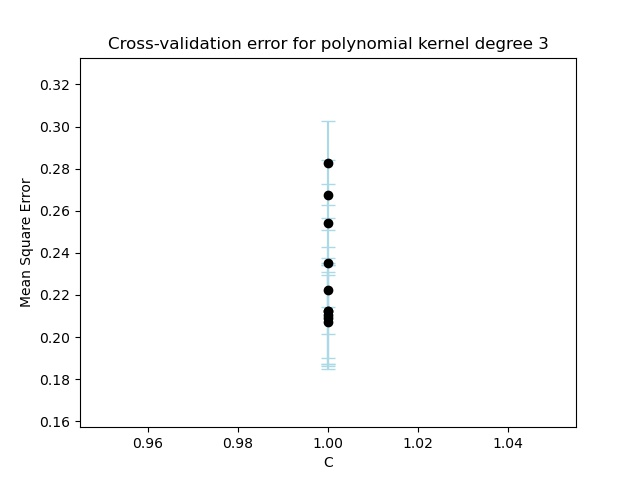
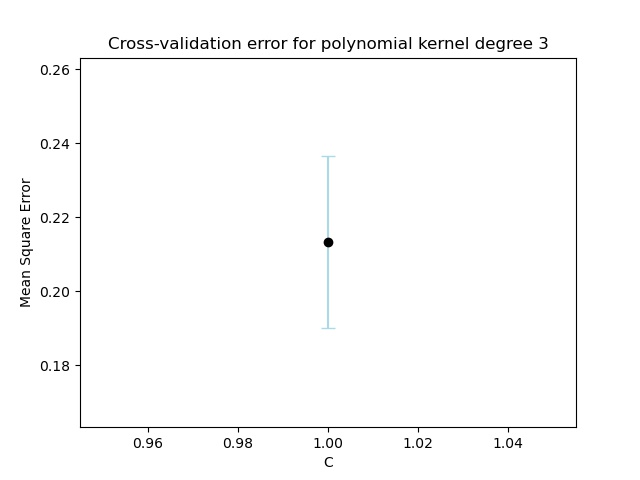
support question 3, 4

diff --git a/main.py b/main.py
@@ -1,90 +1,31 @@
 import pandas as pd
 import numpy as np 
 from libsvm.svmutil import *
-from utils import utils 
 import os
 import sys
 import argparse
-import matplotlib.pyplot as plt 
+
+from utils import utils 
+from utils import data_utils
+from utils import visualized_utils 
+
 
 parser = argparse.ArgumentParser()
 parser.add_argument("--num_disjoint", type=int, default=5,
               help="Number of epoch to train")
 args = parser.parse_args()
 
-def read_data():
-  # reading csv files
-  data =  pd.read_csv('./data/abalone.data').to_numpy()
-  
-  gender2vec = np.array([[1., 0., 0.]]) * (data[:, :1] == "M").astype(np.float32) + \
-               np.array([[0., 1., 0.]]) * (data[:, :1] == "I").astype(np.float32) + \
-               np.array([[0., 0., 1.]]) * (data[:, :1] == "F").astype(np.float32) 
-  data = np.concatenate([gender2vec, data[:, 1:]], 1)
-
-  label = ((data[:, -1] >= 1) | (data[:, -1] <= 9)).astype(np.int64) + \
-          - (data[:, -1] > 9).astype(np.int64)
-  train = {"features": data[:3133, :-1],
-           "labels": label[:3133]}
-  test = {"features": data[3133:, :-1],
-           "labels": label[3133:]}
-  min_train = np.min(train['features'][:, 3:], 0, keepdims=True)
-  max_train = np.max(train['features'][:, 3:], 0, keepdims=True)
-  def preprocess(data):
-    non_cat = (data["features"][:, 3:] - min_train) / (max_train - min_train)
-    data["features"] = np.concatenate([data["features"][:, :3],
-                          non_cat], 1)
-    return data
-  train = preprocess(train)
-  test = preprocess(test)
-  
-  return train, test 
-
-def split_data(data):
-  block_range = int(data['features'].shape[0]/args.num_disjoint)
-  idx = [i for i in range(0, data['features'].shape[0], 
-                   block_range)]
-  idx[-1] = data['features'].shape[0]
-
-  first_train_idx = [(0, id) for id in idx][1:-1]
-  first_train_idx.insert(0, None)
-  second_train_idx = [(idx[i], idx[-1]) for i in range(1, len(idx) - 1)] + [None]
-  test_idx = [(idx[i], idx[i+1]) for i in range(len(idx)-1)]
-   
-  split = []
-  for f_id, s_id, t_id in zip(first_train_idx, second_train_idx, test_idx):
-    out = {"train": {},
-         "test": {}}
-    train_features, train_labels = [], []
-    if f_id is not None:
-      train_features.append(data["features"][f_id[0]: f_id[1]])
-      train_labels.append(data["labels"][f_id[0]: f_id[1]])
-    if s_id is not None:
-      train_features.append(data["features"][s_id[0]: s_id[1]])
-      train_labels.append(data["labels"][s_id[0]: s_id[1]])
-    
-    train_features = np.concatenate(train_features, 0)
-    train_labels = np.concatenate(train_labels, 0)
-    test_features = data["features"][t_id[0]: t_id[1]]
-    test_labels = data["labels"][t_id[0]: t_id[1]]
-
-    out["train"]["features"] = train_features
-    out["train"]["labels"] = train_labels
-    out["test"]["features"] = test_features
-    out["test"]["labels"] = test_labels
-   
-    split.append(out)
- 
-  return split 
-
-def plot(mean):
+def plot3(mean):
   for degree in mean.keys():
     all_mean = mean[degree]
     x, y, e = [], [], []
+    i = 1
     for key, val in all_mean.items():
       #x.append(key)
-      x.append(1)
+      x.append(i)
       y.append(val['mean'])
       e.append(val['std'])
+      i += 1
     plt.errorbar(x, y, e, fmt = 'o', color = 'black', 
               linestyle='None', ecolor = 'lightblue',
               capsize=5)
@@ -93,12 +34,19 @@ def plot(mean):
     plt.ylabel("Mean Square Error")
     plt.title(f"Cross-validation error for polynomial kernel degree {degree}")
     #plt.yscale("log")
+    val = []
+    for x_vis in all_mean.keys():
+      if x_vis < 1.0:
+        val.append(round(x_vis, 3))
+      else:
+        val.append(round(x_vis))
+
+    plt.xticks(x, val)
     plt.savefig(f"./{degree}.jpg")
     plt.clf()
- 
-def question3_2(train, test, best_param):
-  c_param = best_param["C"]
-  degree = range(1, 9)
+
+def question4(train, test, best_param):
+  degree = range(1, 4)
   #degree = [1, 2]
   mse = {}
   dataloader = split_data(train)
@@ -112,7 +60,7 @@ def question3_2(train, test, best_param):
     for split_train in dataloader:
       train_data = split_train["train"]
       test_data = split_train["test"]
-      options = f"-r {c_param} -d {d_param} -t 1 -q"
+      options = f"-r {best_param['C']} -d {d_param} -t 1 -q"
       m = svm_train(train_data["labels"], train_data["features"], options)
       p_label, p_acc, p_val = svm_predict(test_data["labels"], test_data['features'], m, "-q")
       cross_val.append(p_acc[1])
@@ -123,8 +71,11 @@ def question3_2(train, test, best_param):
         best_param["C"] = c_param
 
       _, _, p_val = svm_predict(train_data["labels"], train_data['features'], m, "-q")
-      num_support_vec.append(np.sum((np.abs(p_val) == 1.0).float()))
+      p_val = np.array(p_val)
       
+      num_support_vec.append(np.sum((np.abs(np.abs(p_val) - 1.0) < 1e-3).astype(np.int64)))
+      
+
     #print(c_param, p_acc[1])
     cross_val = np.array(cross_val)
     acc_val = np.array(acc_val)
@@ -132,16 +83,25 @@ def question3_2(train, test, best_param):
                     "std": np.std(cross_val),
                     "acc": np.mean(acc_val),
                     "num_support_vec": np.mean(num_support_vec)}
+    print(np.mean(num_support_vec))
   print(best_param)
   print('domme')
   exit()
-def question3_1(train, test):
-  C = 3** np.linspace(2, 15, 10) 
+
+def question3(train, test):
+  #global c_range
+  #c_range = np.linspace(-5, 20, 8)
+  c_range = np.linspace(-5, 5, 2)
+  #C = 3** np.linspace(2, 15, 10) 
+  #C = 3** np.linspace(-5, 20, 5)
+  C = 3** c_range
+  
   #print(C)
-  degree = [1, 2, 3, 4, 5]
+  #degree = [1, 2, 3, 4, 5]
+  degree = [2]
   #degree = [1, 2]
   mse = {}
-  dataloader = split_data(train)
+  dataloader = data_utils.split_data(train, args.num_disjoint)
   loss = np.inf
   best_param = {"degree": None, "C": None}
   for d_param in degree:
@@ -168,16 +128,14 @@ def question3_1(train, test):
                                "std": np.std(cross_val),
                                "acc": np.mean(acc_val)}
 
-  plot(mse)
+  visualized_utils.plot3(mse)
   return best_param
 
 #def question3_2():
 
 def main():
-  train, test = read_data()
-  best_param = question3_1(train, test)
-  print(best_param)
-  exit()
+  train, test = data_utils.read_data()
+  best_param = question3(train, test)
   question3_2(train, test, best_param)
 
 if __name__ == "__main__":

diff --git a/utils/data_utils.py b/utils/data_utils.py
@@ -1,0 +1,69 @@
+import pandas as pd
+import numpy as np 
+import os
+import sys
+
+
+def read_data():
+  # reading csv files
+  data =  pd.read_csv('./data/abalone.data').to_numpy()
+  
+  gender2vec = np.array([[1., 0., 0.]]) * (data[:, :1] == "M").astype(np.float32) + \
+               np.array([[0., 1., 0.]]) * (data[:, :1] == "I").astype(np.float32) + \
+               np.array([[0., 0., 1.]]) * (data[:, :1] == "F").astype(np.float32) 
+  data = np.concatenate([gender2vec, data[:, 1:]], 1)
+
+  label = ((data[:, -1] >= 1) | (data[:, -1] <= 9)).astype(np.int64) + \
+          - (data[:, -1] > 9).astype(np.int64)
+  train = {"features": data[:3133, :-1],
+           "labels": label[:3133]}
+  test = {"features": data[3133:, :-1],
+           "labels": label[3133:]}
+  min_train = np.min(train['features'][:, 3:], 0, keepdims=True)
+  max_train = np.max(train['features'][:, 3:], 0, keepdims=True)
+  def preprocess(data):
+    non_cat = (data["features"][:, 3:] - min_train) / (max_train - min_train)
+    data["features"] = np.concatenate([data["features"][:, :3],
+                          non_cat], 1)
+    return data
+  train = preprocess(train)
+  test = preprocess(test)
+  
+  return train, test 
+
+def split_data(data, num_disjoint):
+  block_range = int(data['features'].shape[0]/num_disjoint)
+  idx = [i for i in range(0, data['features'].shape[0], 
+                   block_range)]
+  idx[-1] = data['features'].shape[0]
+
+  first_train_idx = [(0, id) for id in idx][1:-1]
+  first_train_idx.insert(0, None)
+  second_train_idx = [(idx[i], idx[-1]) for i in range(1, len(idx) - 1)] + [None]
+  test_idx = [(idx[i], idx[i+1]) for i in range(len(idx)-1)]
+   
+  split = []
+  for f_id, s_id, t_id in zip(first_train_idx, second_train_idx, test_idx):
+    out = {"train": {},
+         "test": {}}
+    train_features, train_labels = [], []
+    if f_id is not None:
+      train_features.append(data["features"][f_id[0]: f_id[1]])
+      train_labels.append(data["labels"][f_id[0]: f_id[1]])
+    if s_id is not None:
+      train_features.append(data["features"][s_id[0]: s_id[1]])
+      train_labels.append(data["labels"][s_id[0]: s_id[1]])
+    
+    train_features = np.concatenate(train_features, 0)
+    train_labels = np.concatenate(train_labels, 0)
+    test_features = data["features"][t_id[0]: t_id[1]]
+    test_labels = data["labels"][t_id[0]: t_id[1]]
+
+    out["train"]["features"] = train_features
+    out["train"]["labels"] = train_labels
+    out["test"]["features"] = test_features
+    out["test"]["labels"] = test_labels
+   
+    split.append(out)
+ 
+  return split 

diff --git a/utils/visualized_utils.py b/utils/visualized_utils.py
@@ -1,0 +1,32 @@
+import matplotlib.pyplot as plt 
+#plt.rcParams['text.usetex'] = True
+
+def plot3(mean):
+  for degree in mean.keys():
+    all_mean = mean[degree]
+    x, y, e = [], [], []
+    i = 1
+    for key, val in all_mean.items():
+      #x.append(key)
+      x.append(i)
+      y.append(val['mean'])
+      e.append(val['std'])
+      i += 1
+    plt.errorbar(x, y, e, fmt = 'o', color = 'black', 
+              linestyle='None', ecolor = 'lightblue',
+              capsize=5)
+    plt.ylim(min(y) - 0.05, max(y) + 0.05)
+    plt.xlabel("C")
+    plt.ylabel("Mean Square Error")
+    plt.title(f"Cross-validation error for polynomial kernel degree {degree}")
+    #plt.yscale("log")
+    val = []
+    for x_vis in all_mean.keys():
+      if x_vis < 1.0:
+        val.append(round(x_vis, 3))
+      else:
+        val.append(round(x_vis))
+
+    plt.xticks(x, val)
+    plt.savefig(f"./{degree}.jpg")
+    plt.clf()
